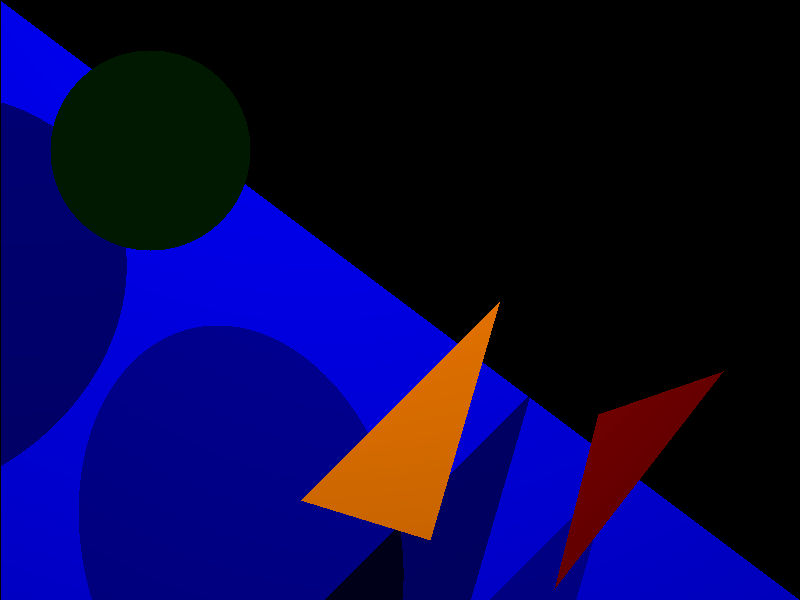
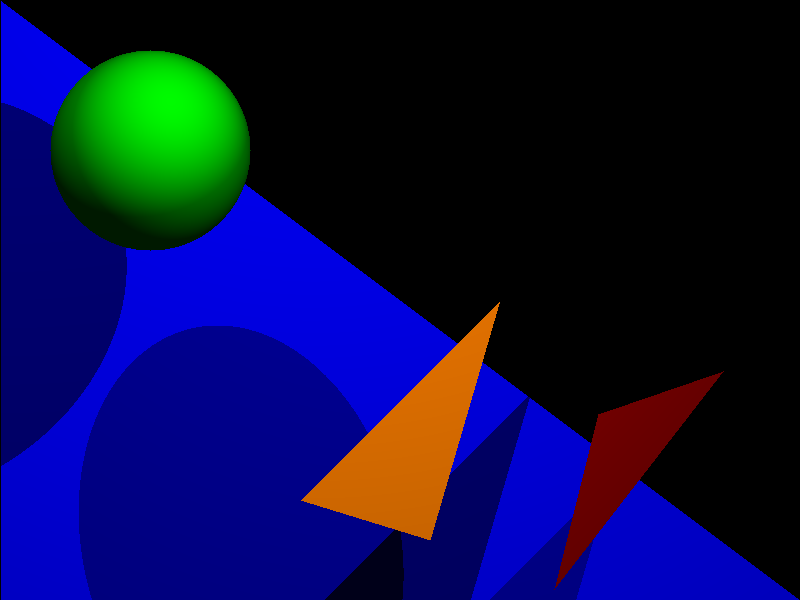
finish shadow for spheres

Changed region(s): [[0.0625, 0.06, 0.3125, 0.39]]

diff --git a/Commons/RayTracer.cs b/Commons/RayTracer.cs
@@ -21,17 +21,14 @@ public class RayTracer(List<IObject3D> sceneObjects, List<LightSource> lightSour
             if (hasHit && intersectionDistance < nearestIntersection)
             {
                 nearestIntersection = intersectionDistance;
-                color = RgbColor.Black;
-
                 var intersectionPoint = CalcHelper.IntersectionPoint(ray, intersectionDistance);
 
-                foreach (var lightSource in LightSources)
-                    color += sceneObject switch
-                    {
-                        ITriangleBased triangleBased => ColorTriangleBased(triangleBased, intersectionPoint, lightSource),
-                        Sphere sphere => ColorSphere(sphere, intersectionPoint, lightSource),
-                        _ => color
-                    };
+                color = sceneObject switch
+                {
+                    ITriangleBased triangleBased => ColorTriangleBased(triangleBased, intersectionPoint),
+                    Sphere sphere => ColorSphere(sphere, intersectionPoint),
+                    _ => color
+                };
                 color += sceneObject.Color * AmbientLight;
             }
         }
@@ -39,42 +36,52 @@ public class RayTracer(List<IObject3D> sceneObjects, List<LightSource> lightSour
         return color;
     }
 
-    private RgbColor ColorSphere(Sphere sphere, Vector3D intersectionPoint, LightSource lightSource)
+    private RgbColor ColorSphere(Sphere sphere, Vector3D intersectionPoint)
     {
-        var vectorToLightSource = (lightSource.Position - intersectionPoint).Normalize();
-        var intersectionPointIsInShadow = CheckRayIntersectionWithOtherObjects(vectorToLightSource, intersectionPoint, lightSource);
-
-        if (!intersectionPointIsInShadow)
+        var color = RgbColor.Black;
+        foreach (var lightSource in LightSources)
         {
-            var normalized = (intersectionPoint - sphere.Center).Normalize();
-            var colorFactor = Math.Max(0, normalized.ScalarProduct(vectorToLightSource));
-            return sphere.Color * lightSource.Color * colorFactor * lightSource.Intensity;
+            var vectorToLightSource = (lightSource.Position - intersectionPoint).Normalize();
+            var intersectionPointIsInShadow = CheckRayIntersectionWithOtherObjects(vectorToLightSource, intersectionPoint, lightSource, sphere);
+
+            if (!intersectionPointIsInShadow)
+            {
+                var normalized = (intersectionPoint - sphere.Center).Normalize();
+                var colorFactor = Math.Max(0, normalized.ScalarProduct(vectorToLightSource));
+                color += sphere.Color * lightSource.Color * colorFactor * lightSource.Intensity;
+            }
         }
 
-        return RgbColor.Black;
+        return color;
     }
 
-    private RgbColor ColorTriangleBased(ITriangleBased triangleBased, Vector3D intersectionPoint, LightSource lightSource)
+    private RgbColor ColorTriangleBased(ITriangleBased triangleBased, Vector3D intersectionPoint)
     {
-        var vectorToLightSource = (lightSource.Position - intersectionPoint).Normalize();
-        var intersectionPointIsInShadow = CheckRayIntersectionWithOtherObjects(vectorToLightSource, intersectionPoint, lightSource);
-
-        if (!intersectionPointIsInShadow)
+        var color = RgbColor.Black;
+        foreach (var lightSource in LightSources)
         {
-            var colorFactor = Math.Max(0, triangleBased.Normalized.ScalarProduct(vectorToLightSource));
-            return triangleBased.Color * lightSource.Color * colorFactor * lightSource.Intensity;
+            var vectorToLightSource = (lightSource.Position - intersectionPoint).Normalize();
+            var intersectionPointIsInShadow = CheckRayIntersectionWithOtherObjects(vectorToLightSource, intersectionPoint, lightSource, triangleBased);
+
+            if (!intersectionPointIsInShadow)
+            {
+                var colorFactor = Math.Max(0, triangleBased.Normalized.ScalarProduct(vectorToLightSource));
+                color += triangleBased.Color * lightSource.Color * colorFactor * lightSource.Intensity;
+            }
         }
 
-        return RgbColor.Black;
+        return color;
     }
 
-    private bool CheckRayIntersectionWithOtherObjects(Vector3D vectorToLightSource, Vector3D intersectionPoint, LightSource lightSource)
+    private bool CheckRayIntersectionWithOtherObjects(Vector3D vectorToLightSource, Vector3D intersectionPoint, LightSource lightSource, IObject3D self)
     {
         var intersectionPointIsInShadow = false;
         var rayToLightSource = new Ray(intersectionPoint + vectorToLightSource * MathConstants.Epsilon, vectorToLightSource);
         var distanceToLightSource = Math.Abs((intersectionPoint - lightSource.Position).Length);
         foreach (var sceneObject in SceneObjects)
         {
+            if (sceneObject == self) continue; // TODO this is a workaround because sphere intersects itself at the moment
+
             var (hasHit, intersectionDistance) = sceneObject.NextIntersection(rayToLightSource);
             if (!hasHit) continue;
 
